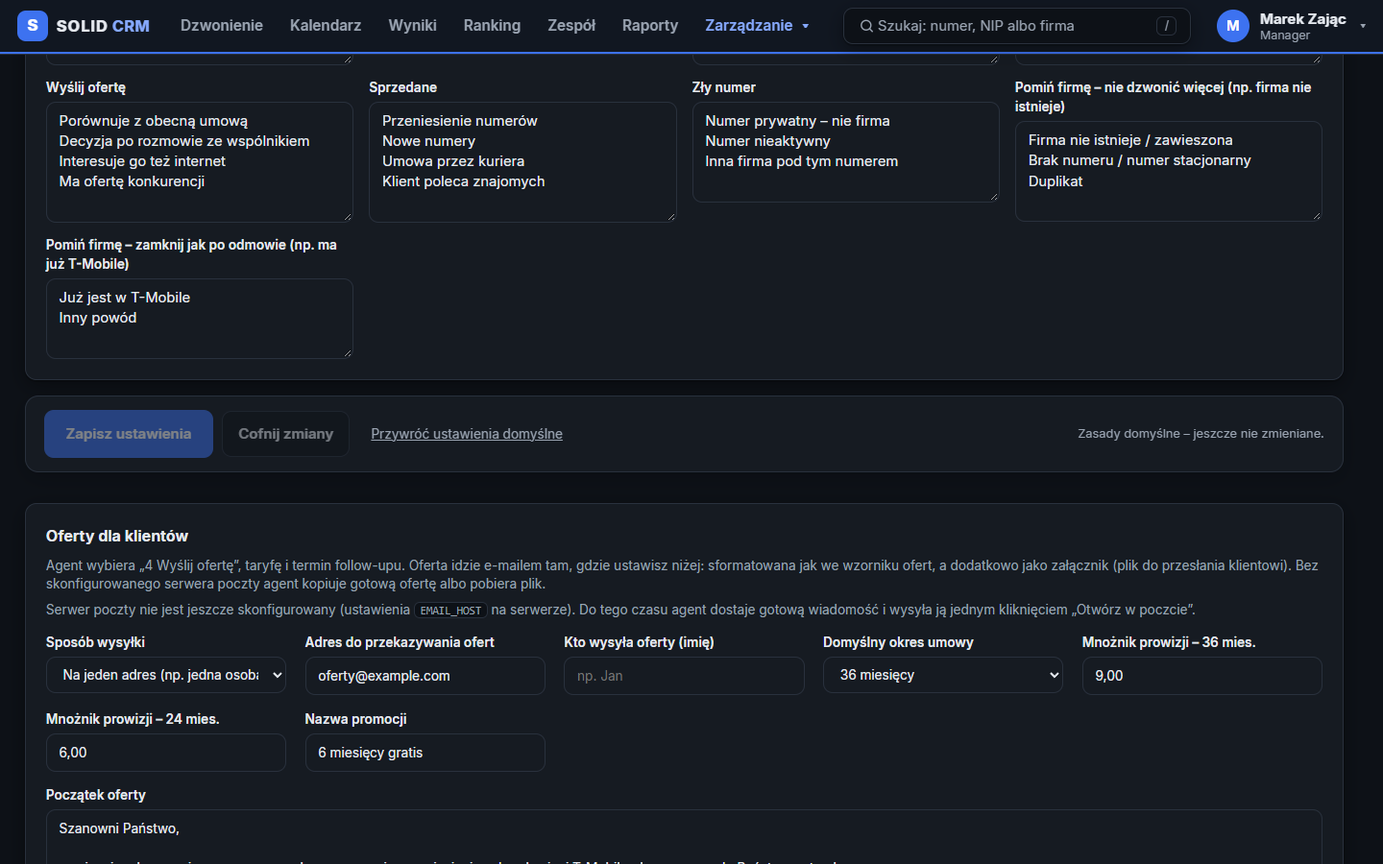
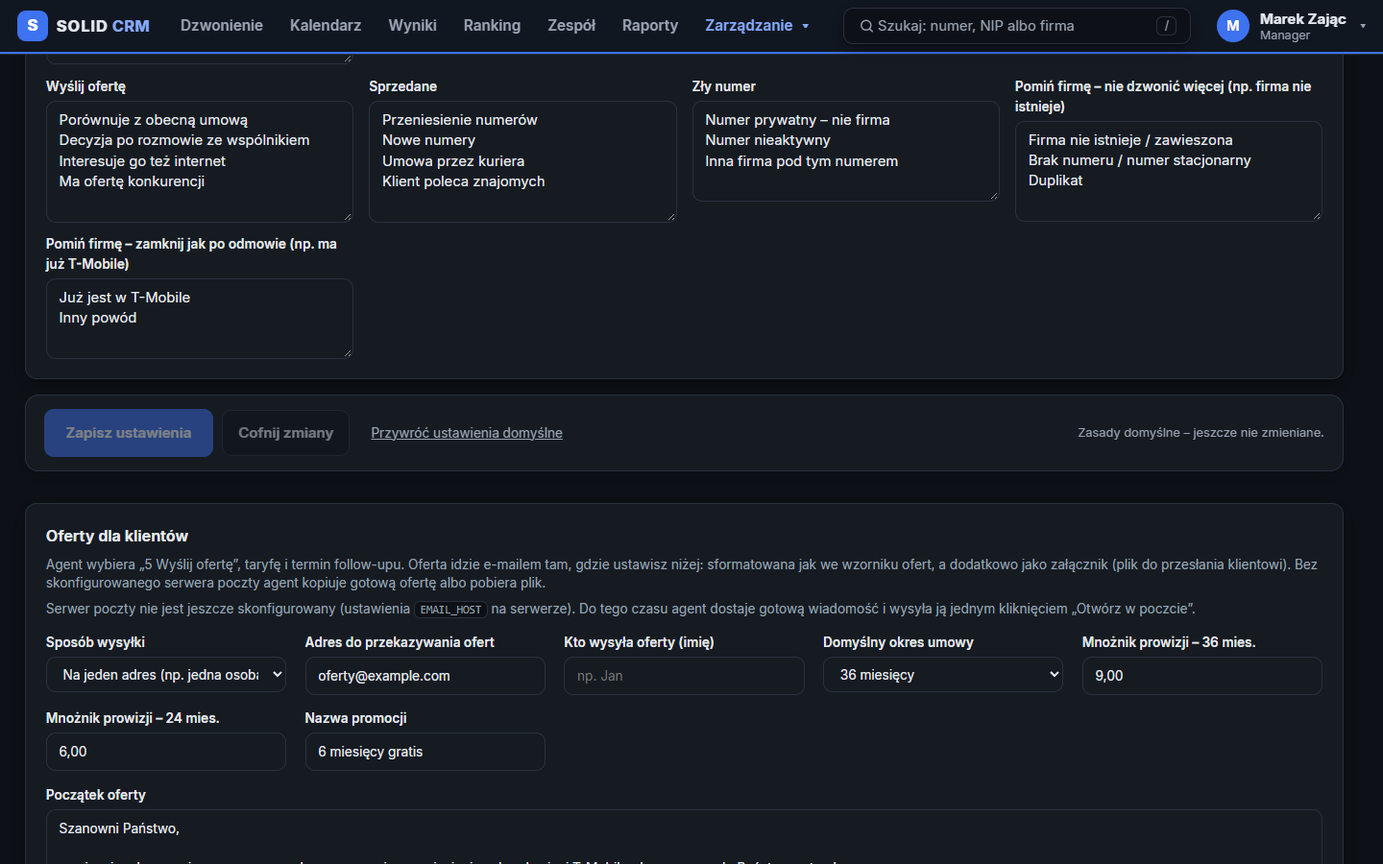
docs: README with fresh screenshots of phone cards, SMS tab, hang up, restore, fiber offer
Screenshots come from the demo database (made-up companies and 555 numbers).

diff --git a/crm/templates/crm/settings.html b/crm/templates/crm/settings.html
@@ -116,7 +116,7 @@
             </div>
             <div class="rec-step">
                 <h3>3. Telefony agentów</h3>
-                <p class="small muted">Na każdym telefonie raz: w aplikacji Solid Dialer (wersja 1.2) kliknąć „Włącz nagrywanie rozmów” i postępować według wskazówek.</p>
+                <p class="small muted">Na każdym telefonie raz: w aplikacji Solid Dialer (wersja 1.2 albo nowsza) kliknąć „Włącz nagrywanie rozmów” i postępować według wskazówek.</p>
                 <ul class="rec-phones" id="rec-phones"></ul>
             </div>
         </div>

diff --git a/README.md b/README.md
@@ -8,7 +8,7 @@ Projekt zaliczeniowy z przedmiotu **Aplikacje WWW** (UWM Olsztyn, 2026), rozwija
 - **Excel:** openpyxl (import i eksport `.xlsx`)
 - **Baza danych:** SQLite
 - **Frontend:** szablony Django, własny CSS i zwykły JavaScript (bez Node.js), motyw ciemny (domyślny), jasny albo auto
-- **Telefon:** aplikacja na Androida **Solid Dialer** (`dialer-android/`, Java): „Zadzwoń” w CRM wybiera numer na telefonie agenta, odsyła czas rozmowy, wysyła SMS-y z przypomnieniem i (opcjonalnie) nagrywa rozmowy
+- **Telefon:** aplikacja na Androida **Solid Dialer** (`dialer-android/`, Java): „Zadzwoń” w CRM wybiera numer na telefonie agenta, odsyła czas rozmowy, wysyła SMS-y z przypomnieniem, pokazuje w CRM, kto dzwoni, przekazuje SMS-y od klientów i (opcjonalnie) nagrywa rozmowy
 
 ![Ekran Dzwonienie](docs/queue.png)
 
@@ -22,14 +22,15 @@ Solid CRM jest dla zespołu, który dzwoni do firm (np. z baz CEIDG i KRS) i spr
 
 - Manager wgrywa bazę firm z Excela (paczka `LeadBatch`). Bazę można dać jednemu agentowi („jego Excel”) albo do **wspólnej puli**.
 - Agent nie wybiera klientów sam. Klika **„Następny klient”** i system podaje najważniejszy kontakt w tej kolejności: 1) follow-upy po ofercie i zainteresowani, 2) umówione oddzwonienia, 3) ponowne próby u tych, którzy nie odebrali, 4) nowe firmy losowane z jego bazy, a potem z puli. Przypisanie jest atomowe, więc dwóch agentów nie dostanie tego samego klienta.
-- Po rozmowie agent wybiera wynik: nie odebrał, oddzwonić, zainteresowany, **wyślij ofertę**, **sprzedane**, odmowa, zły numer albo „pomiń firmę”. System sam ustawia następny krok: termin, ponowną próbę o innej porze dnia, follow-up oferty.
+- Po rozmowie agent wybiera wynik: nie odebrał, odmowa, oddzwonić, zainteresowany, **wyślij ofertę**, **sprzedane**, zły numer albo „pomiń firmę”. System sam ustawia następny krok: termin, ponowną próbę o innej porze dnia, follow-up oferty. Pomyłkę da się naprawić także po czasie: zamkniętego klienta (pominiętego, z odmową) przywraca się przyciskiem **„Przywróć do dzwonienia”**.
 - **Oferta**: agent wybiera taryfę, liczbę numerów, okres umowy (24 lub 36 miesięcy) i promocję (taryfa może mieć kilka promocji do wyboru). Można złożyć **zestaw kilku usług** (komórka + światłowód + TV). CRM na żywo liczy zobowiązanie miesięczne i prowizję, a gotową ofertę wysyła mailem albo kopiuje do poczty.
 - **Koniec umowy u obecnego operatora**: agent zapisuje miesiąc i rok, do kiedy klient ma umowę (albo „bez terminu”). Numer można przenieść najwcześniej 12 miesięcy przed końcem umowy, więc przy „Odmowie, bo mamy umowę” klient się nie zamyka: CRM sam umawia telefon na pierwszy dzień, od którego wolno przenieść numery.
 - **Wiedza pod ręką**: okno „Produkty i kanały TV” odpowiada w trakcie rozmowy, co zawiera taryfa i w którym pakiecie TV jest dany kanał (z ceną).
-- **Przypomnienie SMS**: telefon agenta sam wysyła klientowi SMS przed umówioną rozmową (z karty SIM agenta, bez bramki SMS).
+- **Przypomnienie SMS**: telefon agenta sam wysyła klientowi SMS przed umówioną rozmową (z karty SIM agenta, bez bramki SMS). Gdy termin umówiono przed chwilą (np. „za 15 minut”), SMS nie idzie.
+- **Telefon widać w CRM**: gdy klient dzwoni do agenta, w rogu ekranu pojawia się karta „Dzwoni do Ciebie: firma” z przyciskiem „Otwórz kartę”. SMS-y od klientów są w zakładce „SMS” (adres e-mail z SMS-a zapisuje się w karcie jednym kliknięciem), a gdy sieć napisze, że numer umówionego klienta jest już dostępny, pojawia się karta „Klient już dostępny – możesz dzwonić” z terminem i ostatnią próbą. CRM zapisuje tylko rozmowy i SMS-y z numerami klientów – prywatnych nie. Każdą z tych kart można wyłączyć w „Moich ustawieniach”.
 - **Nagrywanie rozmów** (opcjonalne, domyślnie wyłączone): nagrania trafiają na Dysk Google firmy i są kasowane po ustawionej liczbie dni; odsłuchuje je manager.
 - **Prowizja** = zobowiązanie miesięczne × mnożnik (domyślnie × 6 przy 24 miesiącach, × 9 przy 36). Mnożniki ustawia manager.
-- **Minuty rozmów** liczy aplikacja Solid Dialer z rejestru połączeń telefonu. Cel: domyślnie **15 minut rozmów na każdą godzinę pracy**. Manager zmienia go całemu zespołowi w ustawieniach albo jednej osobie (Zarządzanie → Użytkownicy → „Edytuj”). Czas powyżej godziny pokazujemy jako „9 h 35 min”. Ranking jest po minutach.
+- **Minuty rozmów** liczy aplikacja Solid Dialer z rejestru połączeń telefonu: rozmowy wybrane z CRM, a także te, gdy klient oddzwonił albo agent wybrał numer klienta ręcznie. Poczta głosowa (wynik „Nie odebrał”, połączenie do 60 s) się nie liczy. Cel: domyślnie **15 minut rozmów na każdą godzinę pracy**. Manager zmienia go całemu zespołowi w ustawieniach albo jednej osobie (Zarządzanie → Użytkownicy → „Edytuj”). Czas powyżej godziny pokazujemy jako „9 h 35 min”. Ranking jest po minutach.
 - **Dzień pracy**: liczy się od pierwszej prawdziwej pracy („Następny klient”, telefon, zapis rozmowy) do ostatniej. Samo zalogowanie to jeszcze nie praca (manager widzi tylko „zalogowany o …”). Przerwy 15–45 minut są pokazywane, a od 45 minut to czas poza pracą: odejmuje się go od czasu pracy i od celu minut. W „Zespół → Obecność” widać bloki pracy, np. „9:00–12:00 · 15:00–18:00”.
 - **Ponowne próby w dobrej porze**: gdy firma nie odebrała, kolejna próba wypada innego dnia o godzinie, o której firmy najczęściej odbierają (z historii telefonów zespołu).
 - Zasada nadrzędna: **klient nigdy nie zostaje bez następnego kroku**. Po wyczerpaniu prób klient wraca do puli, a po kilku agentach bez skutku trafia do „nieosiągalnych”.
@@ -50,9 +51,11 @@ Solid CRM jest dla zespołu, który dzwoni do firm (np. z baz CEIDG i KRS) i spr
 | `SaleItem` | pozycja sprzedaży: taryfa, liczba numerów, okres, cena i prowizja z chwili sprzedaży |
 | `Offer`, `OfferConfig` | wysłane oferty i ustawienia ofert (adres, podpis, mnożniki prowizji, nazwa promocji) |
 | `LeadAssignment` | historia przypisań klienta między agentami |
-| `AgentProfile` | ustawienia konta: podgląd rankingu, ukrycie managera w rankingu, cel minut na godzinę, wymuszona zmiana hasła, zdjęcie |
+| `AgentProfile` | ustawienia konta: podgląd rankingu, ukrycie managera w rankingu, cel minut na godzinę, wymuszona zmiana hasła, zdjęcie, prywatny numer („na mój telefon”), wyłączone dzwonienie przez telefon |
 | `TeamRules` | zasady pracy zespołu (limity prób, kroki ponownych prób, dni i godziny pracy, losowanie firm) |
-| `DialerDevice`, `DialerPairing`, `CallRequest` | sparowane telefony, kody parowania i połączenia z dialera (czy odebrał, ile trwało) |
+| `DialerDevice`, `DialerPairing`, `CallRequest` | sparowane telefony, kody parowania i połączenia (zlecone z CRM i z rejestru telefonu: przychodzące i wybrane ręcznie; czy odebrał, ile trwało, „Rozłącz”) |
+| `IncomingSms` | SMS-y od klientów i wiadomości od sieci o numerze klienta („numer już dostępny”); inne SMS-y nie są zapisywane |
+| `SharedFile` | plik „na mój telefon” pod losowym linkiem z SMS-a, ważny 24 godziny |
 | `SmsReminder` | SMS-y z przypomnieniem o umówionej rozmowie (wysyła je telefon agenta) |
 | `RecordingConfig`, `CallRecording` | opcjonalne nagrywanie rozmów: ustawienia i połączony Dysk Google; nagrania (plik leży na Dysku Google) |
 | `WorkDay` | obecność: przyjście, ostatni ruch, wyjście, przerwy |
@@ -212,6 +215,10 @@ Praca agenta:
 | `GET /api/my-leads/`, `due/`, `schedule/`, `summary/` | moi klienci, kontakty do zrobienia, plan dnia, liczby do paska dnia |
 | `GET /api/my-leads/calendar/` | plik `.ics` z terminami kontaktów (np. do Kalendarza Google) |
 | `POST /api/my-leads/{id}/add-callback/` | dodaje termin kontaktu z Kalendarza („+ Dodaj callback”) |
+| `POST /api/my-leads/{id}/reopen/` | „Przywróć do dzwonienia”: zamknięty klient (pominięty, odmowa, zły numer) wraca do stanu sprzed zamknięcia |
+| `GET /api/phone/live/` | co dzieje się na telefonie agenta: kto dzwoni, „numer klienta już dostępny”, nieodebrane od klientów, nowe SMS-y |
+| `GET /api/phone/sms/`, `POST` | SMS-y od klientów z 30 dni; `POST {ids}` albo `{all: true}` = przeczytane |
+| `GET/PATCH/POST /api/phone/self/`, `GET .../self/{id}/` | „Wyślij na mój telefon”: prywatny numer, wysyłka tekstu albo pliku (link) SMS-em i jej stan |
 | `GET /api/offers/?lead=ID`, `POST /api/offers/` | oferty klienta; zapis rozmowy „Wysłana oferta” razem z ofertą i wysyłką |
 | `POST /api/offers/preview/` | wylicza zobowiązanie miesięczne i prowizję bez zapisywania |
 | `GET /api/offers/{id}/html/` | gotowa oferta jako HTML (do pobrania albo skopiowania z formatowaniem) |
@@ -239,7 +246,10 @@ Solid Dialer (telefon agenta):
 | `GET /api/dialer/poll/` | telefon pyta, czy ma coś wybrać albo wysłać SMS-a z przypomnieniem (204 = nic) |
 | `POST /api/dialer/calls/{id}/finish/` | telefon odsyła wynik z rejestru połączeń: `answered` i `duration_seconds` |
 | `POST /api/dialer/sms/{id}/done/` | telefon potwierdza wysłanie SMS-a z przypomnieniem |
-| `GET /api/dialer/status/`, `DELETE` | stan telefonu i ostatniego połączenia; odłączenie telefonów |
+| `GET /api/dialer/status/`, `PATCH`, `DELETE` | stan telefonu i ostatniego połączenia; `PATCH {paused}` wyłącza i włącza dzwonienie przez telefon (parowanie zostaje); odłączenie telefonów |
+| `POST /api/dialer/hangup/` | „Rozłącz” w CRM: telefon kończy trwające połączenie |
+| `GET /api/dialer/calls/{id}/hangup/` | telefon w trakcie rozmowy pyta, czy agent kliknął „Rozłącz” |
+| `POST /api/dialer/phone/ring/`, `log/`, `sms/` | telefon zgłasza: dzwoni klient, połączenia z rejestru (tylko numery klientów), przychodzące SMS-y |
 | `POST /api/dialer/calls/{id}/recording/` | telefon wysyła nagranie rozmowy (gdy nagrywanie jest włączone; opis: `docs/NAGRYWANIE.md`) |
 | `GET/PATCH /api/recordings/settings/` | manager: nagrywanie wł./wył., po ilu dniach usuwać, stan Dysku Google i telefonów |
 | `POST /api/recordings/google/connect/`, `.../disconnect/` | manager: łączenie i odłączanie Dysku Google |
@@ -300,7 +310,7 @@ Aplikacja pod `/crm/` korzysta z tego samego API i tokenów JWT. Na górze jest 
 
 Zrzuty poniżej są w motywie ciemnym (szerokość 1440 px) i pokazują **zwykły dzień pracy**: dane z `seed_demo` uzupełnione o bazy pokazowe i dwa tygodnie udawanej pracy czterech agentów. Wszystkie firmy, osoby i numery są zmyślone.
 
-Agenci nie muszą znać żadnych kombinacji klawiszy. Pojedyncze klawisze (`N` następny klient, `Z` zadzwoń, `1`–`8` wynik rozmowy, `Enter` zapisz, `Esc` wyczyść, `/` szukaj) są tylko dodatkiem i można je wyłączyć w „Moich ustawieniach”. Pierwsze logowanie uruchamia krótki samouczek (13 kroków dla agenta, 22 dla managera).
+Agenci nie muszą znać żadnych kombinacji klawiszy. Pojedyncze klawisze (`N` następny klient, `Z` zadzwoń, `X` rozłącz, `1`–`8` wynik rozmowy, `Enter` zapisz, `Esc` wyczyść, `/` szukaj) są tylko dodatkiem i można je wyłączyć w „Moich ustawieniach”. Pierwsze logowanie uruchamia krótki samouczek (13 kroków dla agenta, 22 dla managera).
 
 | Adres | Kto | Opis |
 |---|---|---|
@@ -317,19 +327,29 @@ Agenci nie muszą znać żadnych kombinacji klawiszy. Pojedyncze klawisze (`N` n
 
 ### Dzwonienie
 
-Po lewej: „Następny klient”, „+ Nowy kontakt”, „Zadzwoń na numer”, „Produkty i kanały TV”, grupy klientów (oferty, oddzwonienia, nie odebrali, nowi), ile zostało w bazie i lista „Moi klienci / Historia dziś”. Na środku karta klienta: najpierw **nazwa firmy**, potem numer z przyciskiem „Zadzwoń”, osoba, e-mail, a NIP i adres małym drukiem. Pole **„Stałe informacje o kliencie”** widzi cały zespół, z dopiskiem, kto i kiedy je zmienił. Po prawej panel „Dziś” (telefony, rozmowy, oferty, sprzedane, prowizja, minuty w tej godzinie wobec celu), terminy na dziś i „Solid info”.
+Po lewej: „Następny klient”, „+ Nowy kontakt”, „Zadzwoń na numer”, „Produkty i kanały TV”, grupy klientów (oferty, oddzwonienia, nie odebrali, nowi), ile zostało w bazie i lista „Moi klienci / Historia / SMS”. Na środku karta klienta: najpierw **nazwa firmy**, potem numer z przyciskiem „Zadzwoń”, osoba, e-mail, a NIP i adres małym drukiem. Pole **„Stałe informacje o kliencie”** widzi cały zespół, z dopiskiem, kto i kiedy je zmienił; rośnie razem z tekstem. Po prawej panel „Dziś” (telefony, rozmowy, oferty, sprzedane, prowizja, minuty w tej godzinie wobec celu), terminy na dziś i „Solid info”.
 
-Wynik rozmowy wybiera się kafelkiem albo klawiszem `1`–`8`. Zapis można cofnąć przyciskiem „Cofnij” przez 10 sekund. Po „Zapisz i dalej” od razu otwiera się następny klient, zawsze od góry karty. Przy połączonym telefonie CRM **sam dzwoni do następnego klienta po 4 sekundach**: nad numerem jest odliczanie i przycisk „Wstrzymaj” (albo Esc). Można to wyłączyć w „Moich ustawieniach”. Gdy klient po ofercie prosi o oddzwonienie, wysłana oferta zostaje widoczna na karcie, w przypomnieniu i na liście (zielona plakietka), więc agent od razu wie, o czym była mowa.
+Wynik rozmowy wybiera się kafelkiem albo klawiszem `1`–`8` (1 Nie odebrał, 2 Odmowa, 3 Oddzwonić, 4 Zainteresowany, 5 Wyślij ofertę, 6 Sprzedane, 7 Zły numer, 8 Pomiń firmę). Zapis można cofnąć przyciskiem „Cofnij” przez 10 sekund. Po „Zapisz i dalej” od razu otwiera się następny klient, zawsze od góry karty. Przy połączonym telefonie CRM **sam dzwoni do następnego klienta po 4 sekundach**: nad numerem jest odliczanie i przycisk „Wstrzymaj” (albo Esc). Można to wyłączyć w „Moich ustawieniach”. Gdy klient po ofercie prosi o oddzwonienie, wysłana oferta zostaje widoczna na karcie, w przypomnieniu i na liście (zielona plakietka), więc agent od razu wie, o czym była mowa.
 
 Na górze karty jest pasek z powodem telefonu (np. „Follow-up po wysłanej ofercie”, z tym, co i kiedy wysłano), a przy leadzie przepisanym od innego agenta dopisek „↪ Przepisany od …”.
 
-**Wyślij ofertę** (4): grupy Komórkowe / Światłowód / Telewizja, taryfa, liczba numerów, okres, promocja („Bez promocji” albo jedna z promocji taryfy), przy światłowodzie „Blok / Dom”. „+ Dodaj kolejną usługę” składa zestaw z sumą. Zobowiązanie i prowizja liczą się na żywo. Oferta idzie mailem na adres ustawiony przez managera. Bez serwera poczty przycisk „Otwórz w poczcie” kopiuje gotową ofertę z formatowaniem.
+**Wyślij ofertę** (5): grupy Komórkowe / Światłowód / Telewizja, taryfa, liczba numerów, okres, promocja („Bez promocji” albo jedna z promocji taryfy), przy światłowodzie „Blok / Dom”. „+ Dodaj kolejną usługę” składa zestaw z sumą. Zobowiązanie i prowizja liczą się na żywo. Oferta idzie mailem na adres ustawiony przez managera. Bez serwera poczty przycisk „Otwórz w poczcie” kopiuje gotową ofertę z formatowaniem.
 
 ![Oferta dla klienta](docs/queue_oferta.png)
 
-Przy wynikach po rozmowie (oddzwonić, zainteresowany, oferta, sprzedane, odmowa) agent zaznacza sieć klienta i **do kiedy klient ma umowę** (miesiąc i rok albo „bez terminu”). Karta klienta pokazuje wtedy plakietkę, np. „Umowa do 06.2028 · przenosić od 07.2027”. Przy „Odmowie” z późniejszą datą klient wraca jako oddzwonienie w dniu, od którego można przenieść numery.
+Światłowód ma jedną promocję („12 miesięcy za 10 zł”, potem cena standardowa), więc jest zawsze włączona, a umowa jest tylko na 24 miesiące (przycisk „36 mies.” jest wyłączony). Pod kwotą CRM pokazuje cenę w pierwszych miesiącach i średnią z całej umowy.
 
-**Sprzedane** (5) zapisuje umowę: taryfę, liczbę numerów i okres, z prowizją.
+![Oferta na światłowód](docs/queue_swiatlowod.png)
+
+Pod „Stałymi informacjami” są **Sieć** i **Umowa do**: w jakiej sieci jest klient (T-Mobile na różowo) i do kiedy ma umowę (miesiąc i rok albo „bez terminu”). Zapisują się od razu. „Sprawdź w UKE ↗” kopiuje numer i otwiera wyszukiwarkę operatora numeru w UKE. Przy kliencie w T-Mobile „Pomiń firmę” od razu wybiera powód „Już jest w T-Mobile” (można zmienić). Przy „Odmowie” z późniejszą datą końca umowy klient wraca jako oddzwonienie w dniu, od którego można przenieść numery.
+
+![Sieć i umowa](docs/queue_siec_umowa.png)
+
+Zamknięty klient (pominięty, odmowa, zły numer) ma na karcie **„Przywróć do dzwonienia”** – np. gdy agent kliknął „Pomiń firmę” zamiast oferty, bo zadzwonił inny klient, i minęło 10 sekund na „Cofnij”. Klient wraca do stanu sprzed zamknięcia (termin, sprawa), a w historii zostaje notatka.
+
+![Przywróć do dzwonienia](docs/queue_przywroc.png)
+
+**Sprzedane** (6) zapisuje umowę: taryfę, liczbę numerów i okres, z prowizją.
 
 ![Sprzedaż](docs/queue_sprzedaz.png)
 
@@ -341,13 +361,35 @@ Wyszukiwarka u góry każdej strony znajduje klienta po numerze telefonu, NIP al
 
 ![Produkty i kanały TV](docs/produkty_kanaly.png)
 
-„Moje ustawienia” (menu konta) to ustawienia jednej osoby: przypomnienia o terminach (karta na ekranie, dźwięk, powiadomienie przeglądarki), panel „Dziś”, chowanie drobnych dodatków na ekranie Dzwonienie (cel minut, „Twoja baza / Wspólna pula”, liczniki na dolnym pasku) i pojedyncze klawisze.
+**Telefon w CRM** (Solid Dialer 1.4): gdy klient dzwoni, w prawym górnym rogu jest karta „Dzwoni do Ciebie” (karta klienta otwiera się sama tylko wtedy, gdy agent nie ma otwartego innego klienta). Zielona karta „Klient już dostępny – możesz dzwonić” pokazuje się przy klientach z umówionym oddzwonieniem, zainteresowanych i po ofercie, z terminem, ostatnią próbą („Dzwoniłeś 14 min temu – nie odebrał”) i treścią SMS-a od sieci. Fioletowa karta „Klient dzwonił – nieodebrane” znika, gdy agent oddzwoni.
 
-![Moje ustawienia](docs/moje_ustawienia.png)
+![Dzwoni klient i klient już dostępny](docs/telefon_karty.png)
+
+Zakładka **SMS** w lewej kolumnie: SMS-y od klientów (czerwona liczba nowych), filtr „Od klientów / Wszystkie” (wiadomości od sieci są ukryte w „Od klientów”) i „Zapisz e-mail … w karcie”, gdy klient przysłał adres SMS-em.
+
+![SMS-y od klientów](docs/sms.png)
+
+W trakcie połączenia z CRM obok numeru jest **„✕ Rozłącz”** (albo klawisz `X`), np. gdy odebrała poczta głosowa. Telefon kończy połączenie, a CRM pokazuje „Rozłączono”. Przycisk, klawisz i komunikat można wyłączyć w „Moich ustawieniach”.
+
+| Telefon dzwoni | Rozłączono |
+|---|---|
+| ![Rozłącz](docs/rozlacz.png) | ![Rozłączono](docs/rozlaczono.png) |
+
+Okno **„Telefon (dialer)”** (menu konta): stan telefonu, **„Wyłącz dzwonienie przez telefon”** (np. w domu, gdy telefon z dialerem został w pracy – parowanie zostaje, „Zadzwoń” otwiera wtedy zwykłe wybieranie numeru) i parowanie. **„Wyślij na mój telefon”** wysyła z komputera tekst albo plik (link ważny 24 godziny) SMS-em na prywatny numer agenta.
+
+| Telefon (dialer) | Wyślij na mój telefon |
+|---|---|
+| ![Telefon (dialer)](docs/telefon_okno.png) | ![Wyślij na mój telefon](docs/na_moj_telefon.png) |
+
+„Moje ustawienia” (menu konta) to ustawienia jednej osoby: samo dzwonienie do następnego klienta, przypomnienia o terminach (karta na ekranie, dźwięk, powiadomienie przeglądarki), karty z telefonu, pasek „Cofnij”, pojedyncze klawisze i wygląd ekranu Dzwonienie (panel „Dziś”, cel minut, „Twoja baza / Wspólna pula”, liczniki i stan telefonu na dolnym pasku, przycisk „Rozłącz”).
+
+| Moje ustawienia | Karty z telefonu |
+|---|---|
+| ![Moje ustawienia](docs/moje_ustawienia.png) | ![Karty z telefonu](docs/moje_ustawienia_telefon.png) |
 
 ### Kalendarz
 
-Plan dnia pokazuje umówione kontakty z godziną, sprawą i ostatnim wynikiem, a „Zaległe” mają czerwoną plakietkę z liczbą. Widok miesiąca pokazuje wszystkie terminy z nazwą firmy (oferty na zielono, oddzwonienia na bursztynowo). Kliknięcie dnia otwiera panel dnia z przyciskami „Otwórz” i „Zadzwoń”, a „+ Dodaj callback” dopisuje nowy termin. „Pobierz kalendarz (.ics)” zapisuje terminy do Kalendarza Google.
+Plan dnia pokazuje umówione kontakty z godziną, sprawą i ostatnim wynikiem. Wszystkie spóźnione kontakty obiecane klientowi (z wcześniejszych dni i z dziś) są razem w „Zaległe” z czerwoną plakietką liczby. Przełącznik **„Tylko umówione | Wszystko”** (domyślnie „Tylko umówione”) chowa automatyczne ponowne próby po „Nie odebrał” – „Następny klient” i tak je poda. Widok miesiąca pokazuje wszystkie terminy z nazwą firmy (oferty na zielono, oddzwonienia na bursztynowo). Kliknięcie dnia otwiera panel dnia z przyciskami „Otwórz” i „Zadzwoń”, a „+ Dodaj callback” dopisuje nowy termin. „Pobierz kalendarz (.ics)” zapisuje terminy do Kalendarza Google.
 
 ![Plan dnia](docs/plan.png)
 
@@ -427,7 +469,7 @@ Osobna karta **Nagrywanie rozmów**: połączenie z Dyskiem Google firmy, włąc
 
 ## Solid Dialer i hosting
 
-- **Solid Dialer** (`dialer-android/`, wersja 1.2): agent paruje telefon kodem 6 cyfr (menu konta → „Telefon (dialer)…”). „Zadzwoń” w CRM wybiera numer na telefonie, a po rozmowie aplikacja odsyła z rejestru połączeń, czy klient odebrał i ile trwała rozmowa. Ta sama aplikacja wysyła SMS-y z przypomnieniem i, gdy manager włączy nagrywanie, nagrywa rozmowy. Dzwoni się zawsze z karty SIM agenta (bez VoIP). Budowanie i instalacja: [`dialer-android/README.md`](dialer-android/README.md).
+- **Solid Dialer** (`dialer-android/`, wersja 1.4): agent paruje telefon kodem 6 cyfr (menu konta → „Telefon (dialer)…”). „Zadzwoń” w CRM wybiera numer na telefonie, a po rozmowie aplikacja odsyła z rejestru połączeń, czy klient odebrał i ile trwała rozmowa (także rozmowy przychodzące od klientów i numery wybrane ręcznie). Ta sama aplikacja wysyła SMS-y z przypomnieniem i SMS-y „na mój telefon”, zgłasza, kto dzwoni, przekazuje SMS-y od klientów, kończy połączenie po „Rozłącz” w CRM i, gdy manager włączy nagrywanie, nagrywa rozmowy. Dzwoni się zawsze z karty SIM agenta (bez VoIP). Budowanie i instalacja: [`dialer-android/README.md`](dialer-android/README.md).
 
   | Parowanie z CRM | Dialer gotowy do pracy |
   |---|---|
@@ -452,7 +494,7 @@ Lista leadów w szablonie Django (`/crm/leads/`, strona z Labu 3, ma tylko jasny
 python manage.py test
 ```
 
-**581 testów** `APITestCase` w dwudziestu plikach w `crm/`:
+**598 testów** `APITestCase` w dwudziestu jeden plikach w `crm/`:
 
 | Plik | Co sprawdza |
 |---|---|
@@ -476,6 +518,7 @@ python manage.py test
 | `test_agent_report.py` | „Wszystko po agencie” (także Excel) i „Usuń tę bazę” |
 | `test_contract.py` | koniec umowy u obecnego operatora i samo oddzwonienie w dniu, od którego wolno przenieść numer |
 | `test_phrases.py` | powody i gotowe przyciski ustawiane przez managera, powody „Pomiń firmę” |
+| `test_phone.py` | telefon w CRM: kto dzwoni, rejestr połączeń (tylko numery klientów), SMS-y od klientów i „numer już dostępny”, „na mój telefon” i link do pliku, poczta głosowa, „Przywróć do dzwonienia”, wyłączanie dzwonienia, „Rozłącz” |
 
 ## Struktura projektu
 
@@ -491,11 +534,12 @@ crm/
   services.py, rules.py       logika biznesowa: losowanie, skutki rozmów, ponowne próby, statystyki
   tariffs.py, tv_channels.py  wzornik taryf i lista kanałów TV
   sms.py                      SMS-y z przypomnieniem
+  phone.py, phone_api.py      telefon w CRM: kto dzwoni, rejestr połączeń, SMS-y od klientów, „na mój telefon”
   recordings.py, recordings_api.py         nagrywanie rozmów i Dysk Google
   excel.py, sample_data.py    import i eksport xlsx, przykładowe pliki
   permissions.py, roles.py    role i uprawnienia
   web_views.py, web_urls.py   strony HTML
-  templates/, static/         szablony, CSS i JavaScript (app.js, queue.js, tour.js, ...)
+  templates/, static/         szablony, CSS i JavaScript (app.js, queue.js, live.js, tour.js, ...)
   management/commands/        seed_demo, reset_leads, setup_roles, start_firm, load_tariffs, device_code, ...
   tests.py, test_*.py         testy
 dialer-android/               aplikacja Solid Dialer na Androida (Java)

diff --git a/dialer-android/README.md b/dialer-android/README.md
@@ -28,6 +28,18 @@ Na serwerze docelowo używamy `https://`.
 - `POST /api/dialer/sms/{id}/done/` `{ok, error}`
 - `POST /api/dialer/calls/{id}/recording/?duration=SEK` – surowy plik nagrania (`audio/ogg` albo `audio/mp4`)
 - poll dostaje `?rec=1|0&v=WERSJA` (czy da się nagrywać, wersja aplikacji), a zadanie `call` ma pole `record`
+- od 1.3: `POST /api/dialer/phone/ring/` `{phone}` (dzwoni klient), `POST /api/dialer/phone/log/` `{calls: [{phone, type: in|out|missed, seconds, at}]}`
+  (rejestr połączeń, których CRM nie zlecał), `POST /api/dialer/phone/sms/` `{sender, text, at}` (przychodzący SMS)
+- od 1.4: w trakcie połączenia `GET /api/dialer/calls/{id}/hangup/` → `{hangup}`; gdy `true`, aplikacja kończy połączenie
+
+## Telefon w CRM (od 1.3) i „Rozłącz” (od 1.4)
+- Gdy dzwoni klient, CRM od razu pokazuje kartę „Dzwoni do Ciebie: firma”.
+- Po rozmowie aplikacja wysyła do CRM połączenia z rejestru (klient oddzwonił, numer wybrany ręcznie). CRM zapisuje
+  tylko połączenia z numerami klientów i liczy je do minut rozmów – prywatne rozmowy nie trafiają do CRM.
+- Przychodzące SMS-y: CRM zapisuje tylko SMS-y od klientów i wiadomości od sieci o numerze klienta („numer już dostępny”).
+- „Rozłącz” w CRM kończy połączenie wybrane z CRM (zgoda „Telefon” – kończenie połączeń; nie każdy telefon na to pozwala).
+- Na Xiaomi: Ustawienia → Aplikacje → Solid Dialer → **Autostart** włączony i **Oszczędzanie baterii: bez ograniczeń**,
+  inaczej telefon usypia aplikację w tle.
 
 ## SMS z przypomnieniem
 Przed umówionym telefonem aplikacja sama wysyła klientowi SMS z przypomnieniem (ile wcześniej i treść ustawia
@@ -35,7 +47,7 @@ manager w CRM: Ustawienia → „SMS z przypomnieniem”). SMS idzie z karty SIM
 (widać go potem w „Wysłanych” w Wiadomościach), więc kosztuje tyle co zwykły SMS w abonamencie, bez żadnej bramki.
 Działa tylko, gdy telefon jest włączony i dialer pracuje. Przy pierwszym uruchomieniu nowej wersji zgódź się na „SMS-y”.
 
-## Nagrywanie rozmów (1.2, opcjonalne)
+## Nagrywanie rozmów (od 1.2, opcjonalne)
 Gdy manager włączy nagrywanie w CRM (i połączy Dysk Google), aplikacja nagrywa rozmowy wybrane z CRM, a po rozmowie
 wysyła nagranie do CRM. Na telefonie raz: „Włącz nagrywanie rozmów” → zgoda na mikrofon → w ułatwieniach dostępu włączyć
 „Solid Dialer – nagrywanie rozmów” (Android 13+: najpierw w informacjach o aplikacji ⋮ → „Zezwól na ustawienia z ograniczeniami”).
